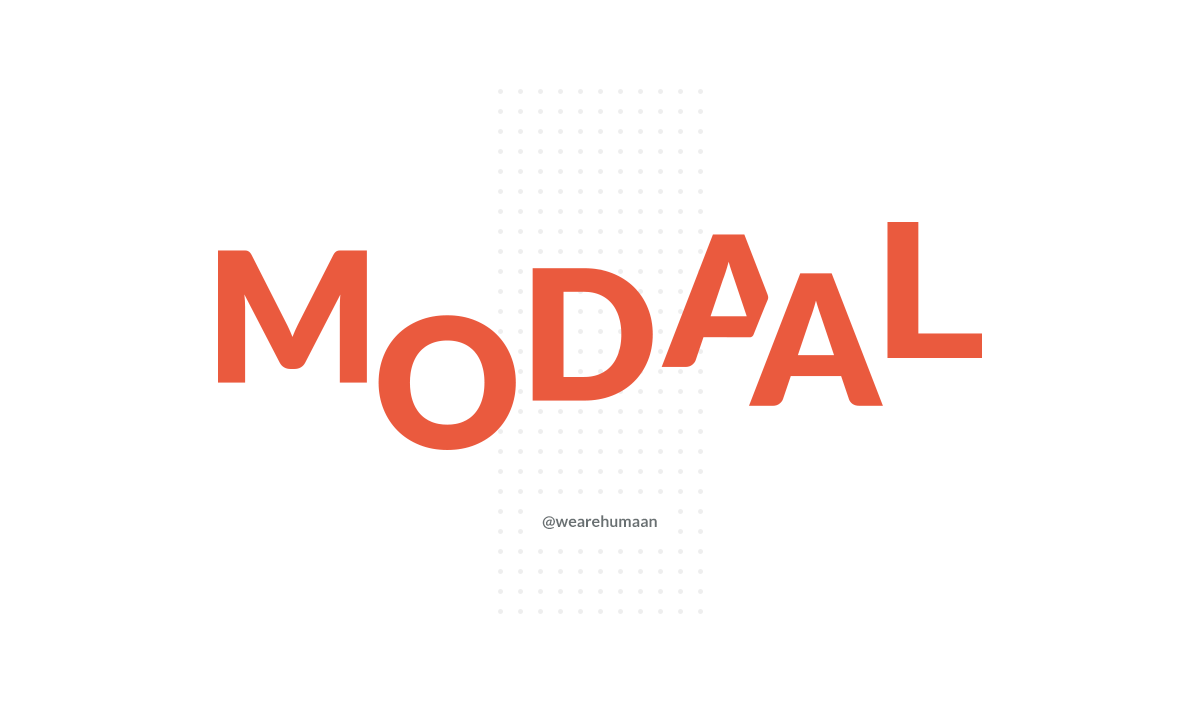
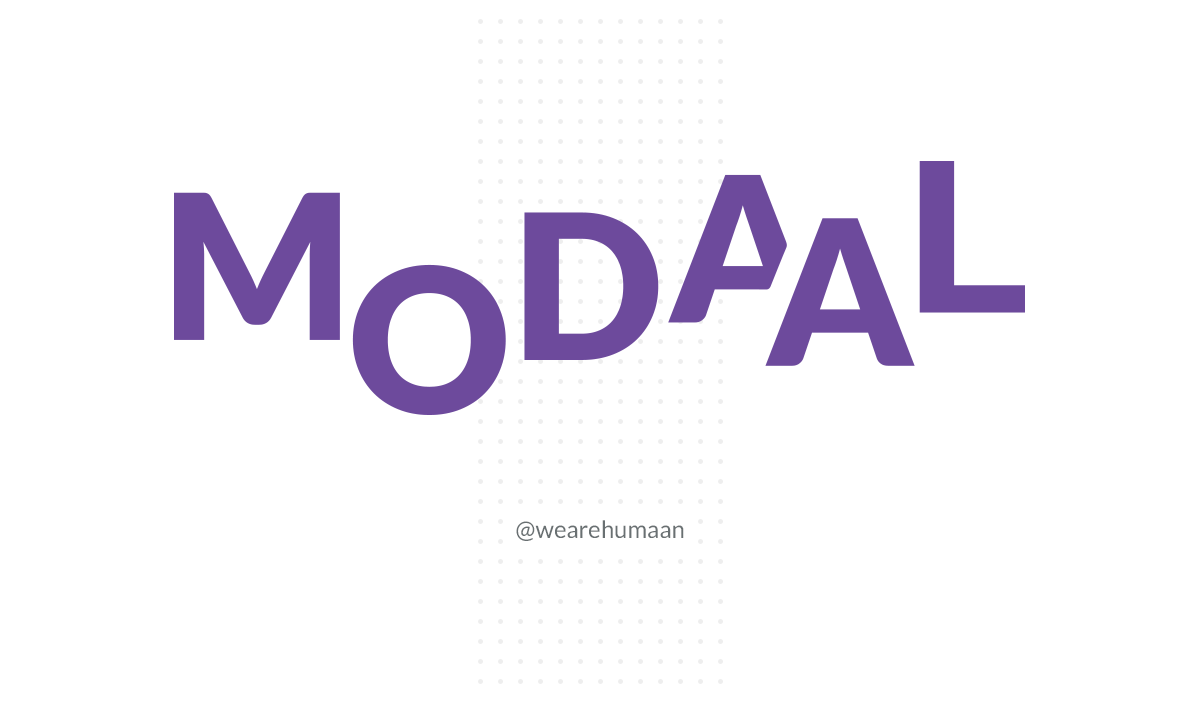
updated primary colour for demo page

Changed region(s): [[0.1233, 0.2094, 0.8633, 0.6581], [0.4317, 0.7179, 0.5858, 0.7778]]

diff --git a/demo/css/demo.css b/demo/css/demo.css
@@ -61,7 +61,7 @@ h2 {
     font-size: 14px;
     text-transform: uppercase;
     margin: 0 0 80px;
-    color: #ea5a3d;
+    color: #6d4d9a;
     font-weight: 800;
     letter-spacing: 2px;
     text-align: center; }
@@ -70,15 +70,15 @@ h3.highlight {
   font-size: 14px;
   text-transform: uppercase;
   margin: 60px 0 20px;
-  color: #ea5a3d;
+  color: #6d4d9a;
   font-weight: 800;
   letter-spacing: 2px; }
 
 a {
-  color: #ea5a3d;
+  color: #6d4d9a;
   text-decoration: none; }
   a:hover {
-    color: #c53315; }
+    color: #493467; }
 
 p {
   margin: 0 0 10px; }
@@ -117,8 +117,8 @@ hr {
 
 .btn {
   display: inline-block;
-  background: #ea5a3d;
-  border: 3px solid #ea5a3d;
+  background: #6d4d9a;
+  border: 3px solid #6d4d9a;
   color: #fff;
   font-weight: 800;
   font-size: 13px;
@@ -127,11 +127,11 @@ hr {
   padding: 10px 25px;
   line-height: 20px; }
   .btn:hover {
-    border-color: #6d4d9a;
-    background: #6d4d9a;
+    border-color: #d95200;
+    background: #d95200;
     color: #fff; }
     .btn:hover span {
-      color: #6d4d9a; }
+      color: #d95200; }
   .btn.btn-small {
     font-size: 11px;
     padding: 5px 15px; }
@@ -144,7 +144,7 @@ hr {
       padding: 0 15px;
       margin: -10px 0;
       background: #fff;
-      color: #ea5a3d; }
+      color: #6d4d9a; }
       .btn.btn-download span:before {
         display: block;
         content: " ";
@@ -226,7 +226,7 @@ hr {
     width: 590px;
     height: 176px;
     margin: -88px 0 0 -295px;
-    fill: #ea5a3d; }
+    fill: #6d4d9a; }
 
 .version {
   position: absolute;
@@ -252,9 +252,9 @@ hr {
   .scroll-trigger:hover {
     transform: translateY(15px); }
     .scroll-trigger:hover .scroll-arrow {
-      background: #ea5a3d; }
+      background: #6d4d9a; }
       .scroll-trigger:hover .scroll-arrow:before, .scroll-trigger:hover .scroll-arrow:after {
-        background: #ea5a3d; }
+        background: #6d4d9a; }
 
 .scroll-arrow {
   display: block;
@@ -289,7 +289,7 @@ hr {
   width: 100%;
   height: 70px;
   box-shadow: 0 0 5px transparent;
-  background: #ea5a3d;
+  background: #6d4d9a;
   transform: translateY(0);
   -webkit-transition: all 0.6s cubic-bezier(0.23, 1, 0.32, 1);
   -moz-transition: all 0.6s cubic-bezier(0.23, 1, 0.32, 1);
@@ -311,7 +311,7 @@ hr {
     background: #fff;
     padding: 6px 16px;
     font-size: 11px;
-    color: #ea5a3d; }
+    color: #6d4d9a; }
     .modaal-fixed-header .btn:hover {
       background: transparent;
       color: #fff; }
@@ -330,7 +330,7 @@ hr {
     text-transform: uppercase; }
     #page-nav a:hover {
       background: #fff;
-      color: #ea5a3d; }
+      color: #6d4d9a; }
 
 .overview-copy {
   text-align: center;
@@ -392,7 +392,7 @@ hr {
     box-sizing: border-box;
     overflow: auto; }
     .modaal-example pre span {
-      color: #ea5a3d; }
+      color: #6d4d9a; }
     .modaal-example pre strong {
       display: block;
       position: absolute;
@@ -401,7 +401,7 @@ hr {
       line-height: 1;
       font-size: 10px;
       text-transform: uppercase;
-      color: #ea5a3d;
+      color: #6d4d9a;
       font-family: 'Lato', Arial, Helvetica, sans-serif;
       letter-spacing: 1px; }
     .modaal-example pre + pre {
@@ -418,7 +418,7 @@ hr {
   margin: 0 3px;
   padding: 3px 5px; }
   .inline-code span {
-    color: #ea5a3d; }
+    color: #6d4d9a; }
   .inline-code.start-row {
     margin-left: 0; }
 

diff --git a/demo/css/demo.scss b/demo/css/demo.scss
@@ -1,7 +1,7 @@
 // Variables
-$modaal-main: #ea5a3d;
+$modaal-main: #6d4d9a; //#ea5a3d; //#2879d4;
 $modaal-grey: #697072;
-$modaal-purple: #6d4d9a;
+$modaal-purple: #d95200;
 $modaal-grey-light: #eee;
 $modaal-grey-light2: #f5f5f5;
 
